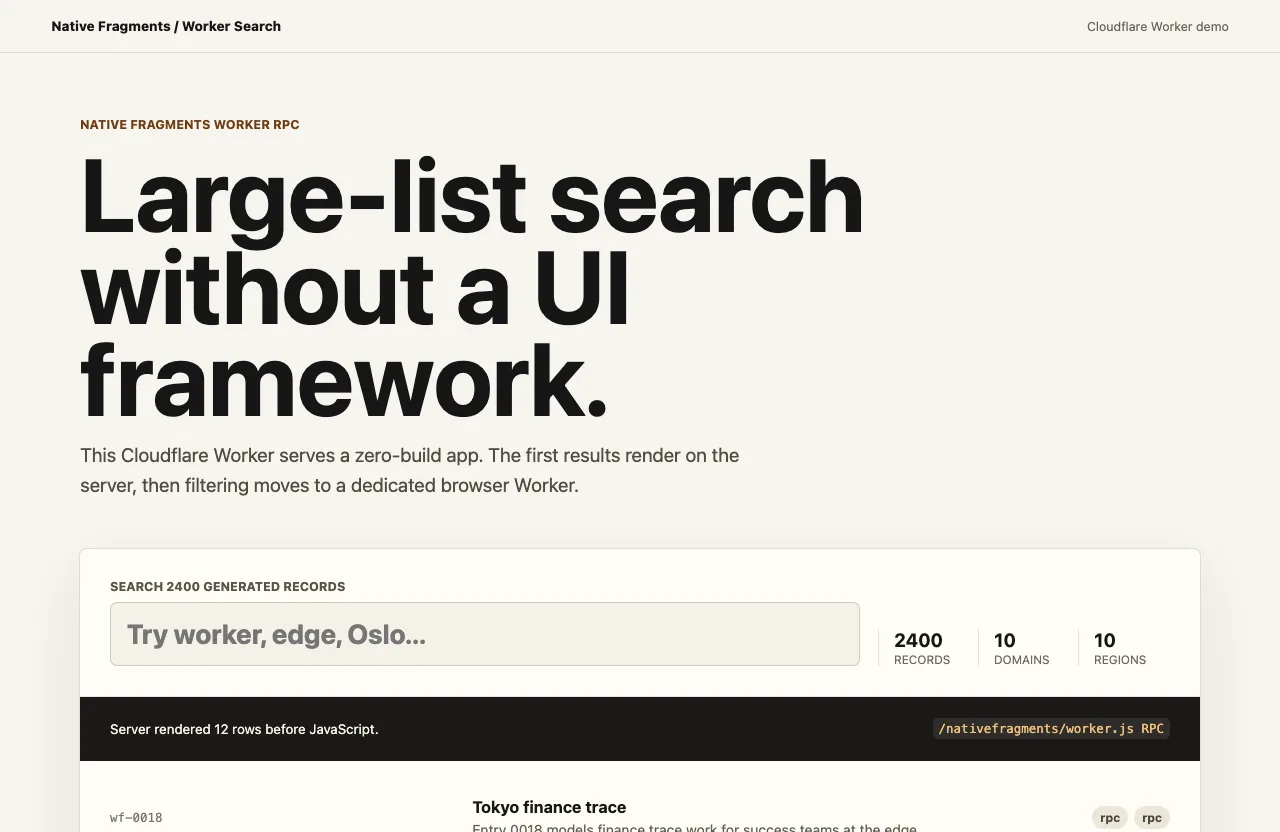
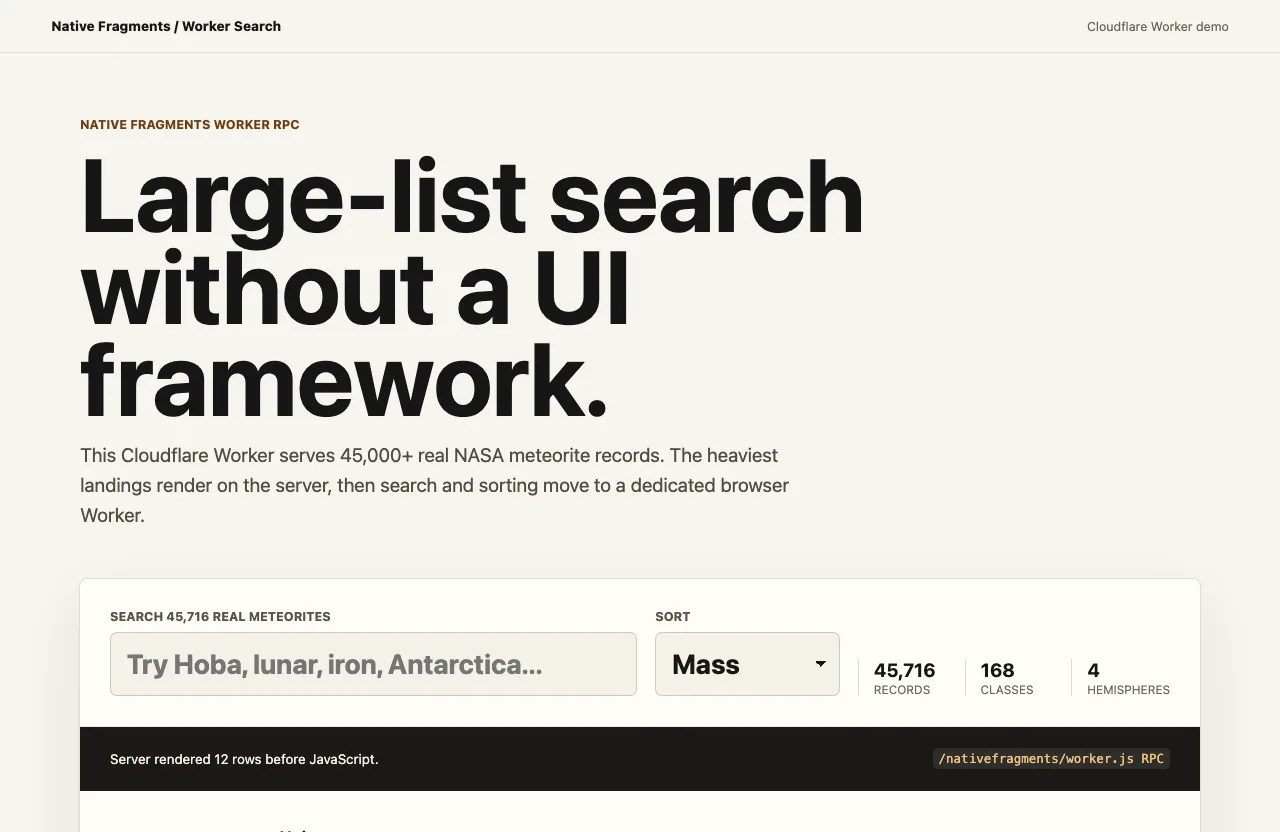
Refresh worker search example listing

Changed region(s): [[0.0625, 0.6875, 0.9375, 1.0], [0.0625, 0.5312, 0.625, 0.625], [0.5, 0.7188, 0.5312, 0.75]]

diff --git a/site/demo-catalog.js b/site/demo-catalog.js
@@ -40,7 +40,7 @@ export const demos = [
     slug: "worker-search",
     title: "Worker Search",
     summary:
-      "Large-list filtering through the Native Fragments worker RPC helper.",
+      "Search and sort 45,716 NASA meteorite landing records in a browser Worker.",
     url: "https://worker-search.nativefragments.org",
   },
   {